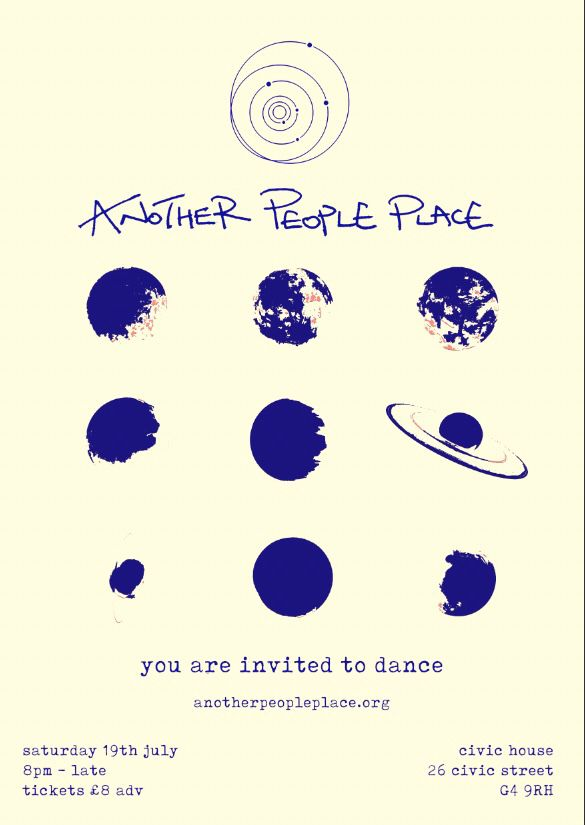
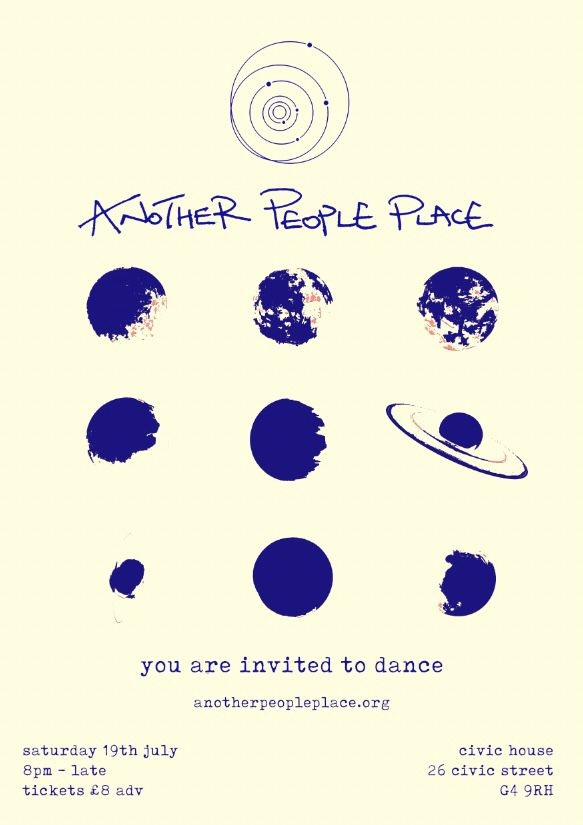
Adjusting poster

diff --git a/index.html b/index.html
@@ -131,7 +131,17 @@
     margin: 0.5rem 0;
   }
 
-  .event-poster, .headerphoto, .gallery img {
+  .event-poster {
+    width: 100%;
+    height: auto;
+    border-radius: 4px;
+    border: 1px solid #ccc;
+    box-shadow: 0 8px 16px rgba(0, 0, 0, 0.3);
+    margin-top: 1rem;
+    display: block;
+  }
+
+  .headerphoto, .gallery img {
     width: 100%;
     height: auto;
     border-radius: 4px;
